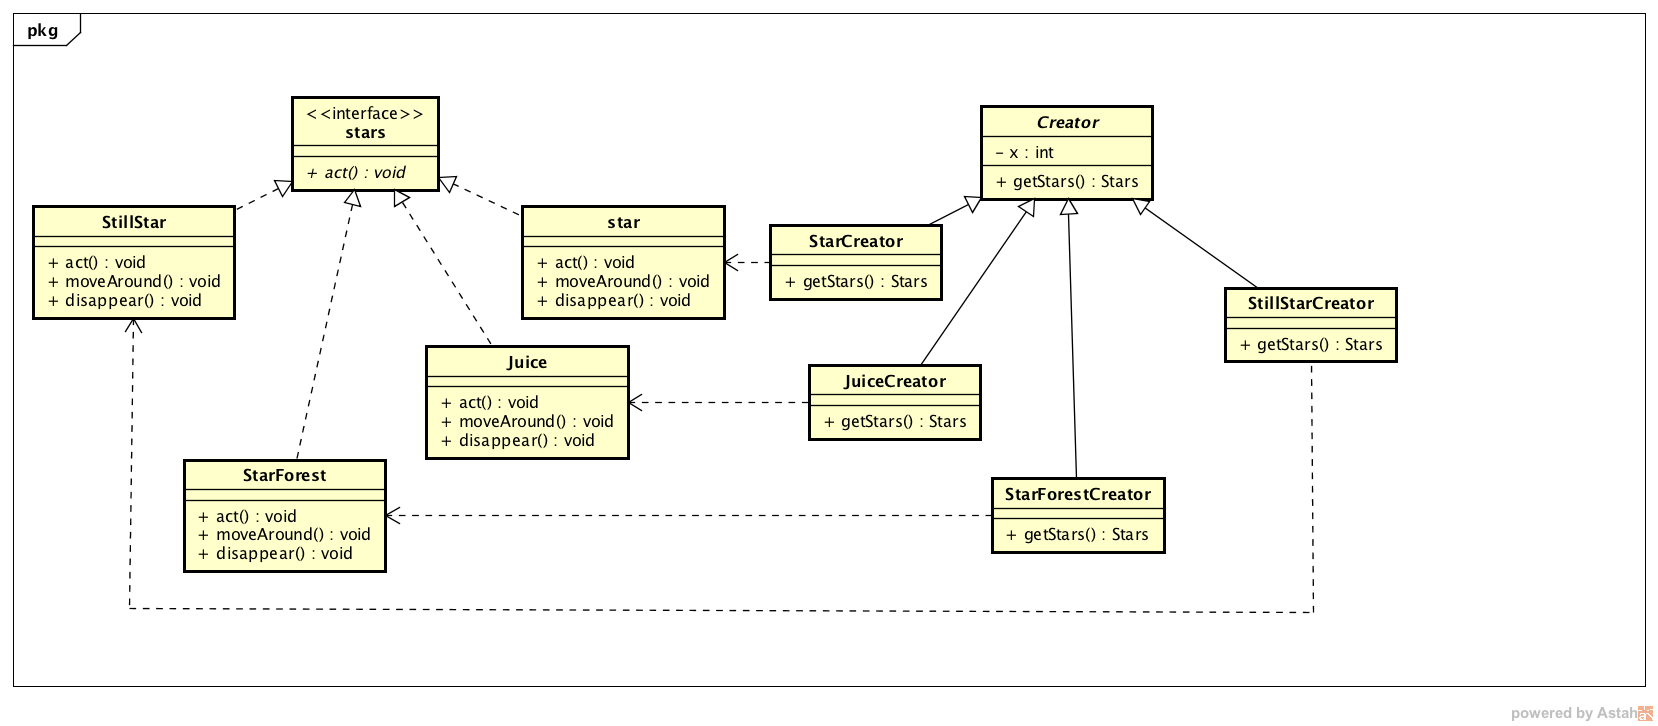
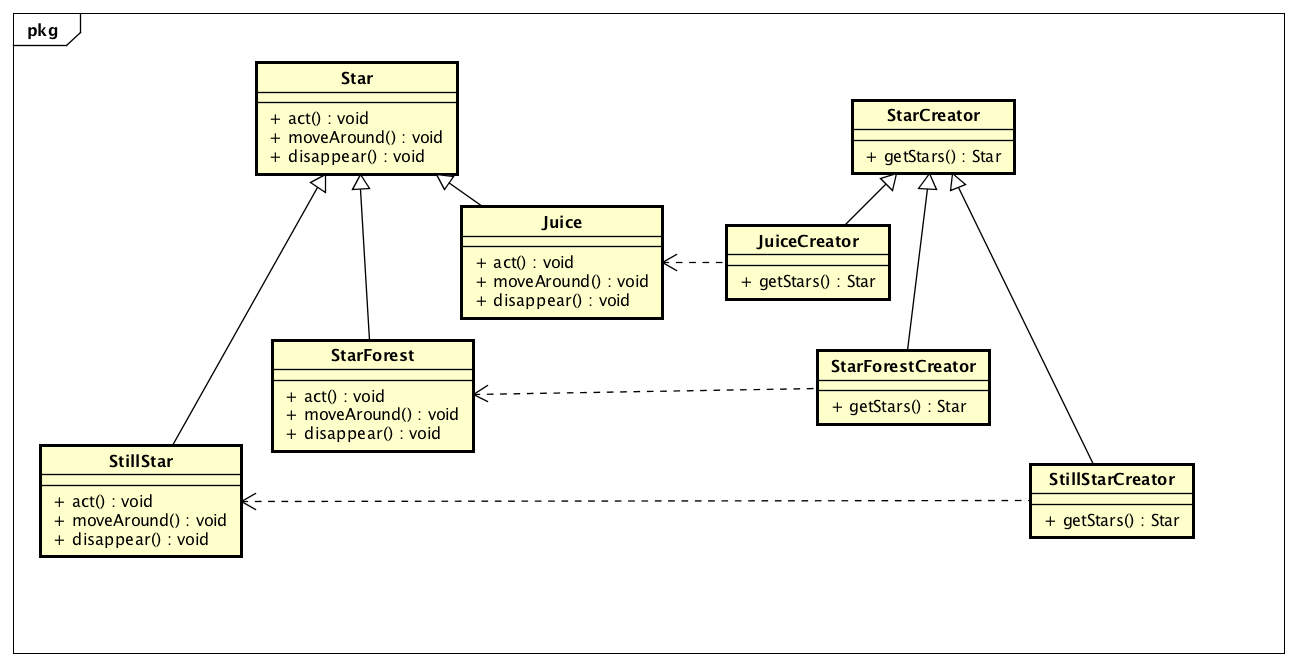
add some diagrams

diff --git a/src/StarCreator.java b/src/StarCreator.java
@@ -1,13 +1,14 @@
 /**
- * Write a description of class StarCreator here.
+ * Write a description of class Creator here.
  * 
  * @author (your name) 
  * @version (a version number or a date)
  */
-public class StarCreator extends Creator 
+public  class StarCreator  
 {
-    // instance variables - replace the example below with your own
+
     public Star getStars(){
         return new Star();
+    
     }
 }

diff --git a/src/Juice.java b/src/Juice.java
@@ -6,7 +6,7 @@ import greenfoot.*;  // (World, Actor, GreenfootImage, Greenfoot and MouseInfo)
  * @author (your name) 
  * @version (a version number or a date)
  */
-public class Juice extends Star implements Stars
+public class Juice extends Star
 {
     /**
      * Act - do whatever the Juice wants to do. This method is called whenever

diff --git a/src/StarForest.java b/src/StarForest.java
@@ -11,7 +11,7 @@ import greenfoot.*;  // (World, Actor, GreenfootImage, Greenfoot and MouseInfo)
  * @author (your name) 
  * @version (a version number or a date)
  */
-public class StarForest extends Star implements Stars
+public class StarForest extends Star
 {
     
     public void act() 

diff --git a/src/StarForestCreator.java b/src/StarForestCreator.java
@@ -4,7 +4,7 @@
  * @author (your name) 
  * @version (a version number or a date)
  */
-public class StarForestCreator extends Creator 
+public class StarForestCreator extends StarCreator 
 {
     public Star getStars(){
         return new StarForest();

diff --git a/src/StillStarCreator.java b/src/StillStarCreator.java
@@ -4,7 +4,7 @@
  * @author (your name) 
  * @version (a version number or a date)
  */
-public class StillStarCreator extends Creator 
+public class StillStarCreator extends StarCreator 
 {
    public Star getStars(){
         return new stillStar();

diff --git a/src/JuiceCreator.java b/src/JuiceCreator.java
@@ -4,7 +4,7 @@
  * @author (your name) 
  * @version (a version number or a date)
  */
-public class JuiceCreator extends Creator 
+public class JuiceCreator extends StarCreator 
 {
     public Star getStars(){
         return new Juice();

diff --git a/src/stillStar.java b/src/stillStar.java
@@ -1,7 +1,7 @@
 import greenfoot.*;  // (World, Actor, GreenfootImage, Greenfoot and MouseInfo)
 
 
-public class stillStar extends Star implements Stars
+public class stillStar extends Star 
 {
     
     public void act() 

diff --git a/src/Star.java b/src/Star.java
@@ -1,7 +1,7 @@
 import greenfoot.*;  // (World, Actor, GreenfootImage, Greenfoot and MouseInfo)
 
 
-public class Star extends Actor implements Stars
+public class Star extends Actor
 {
     
     public void act() 
